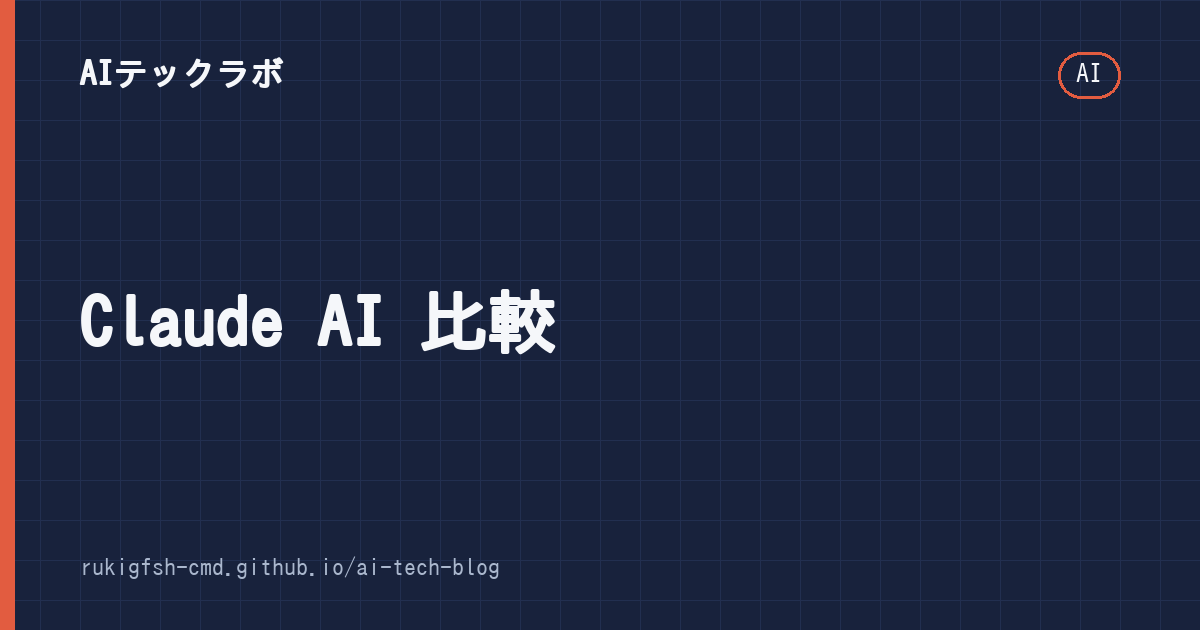
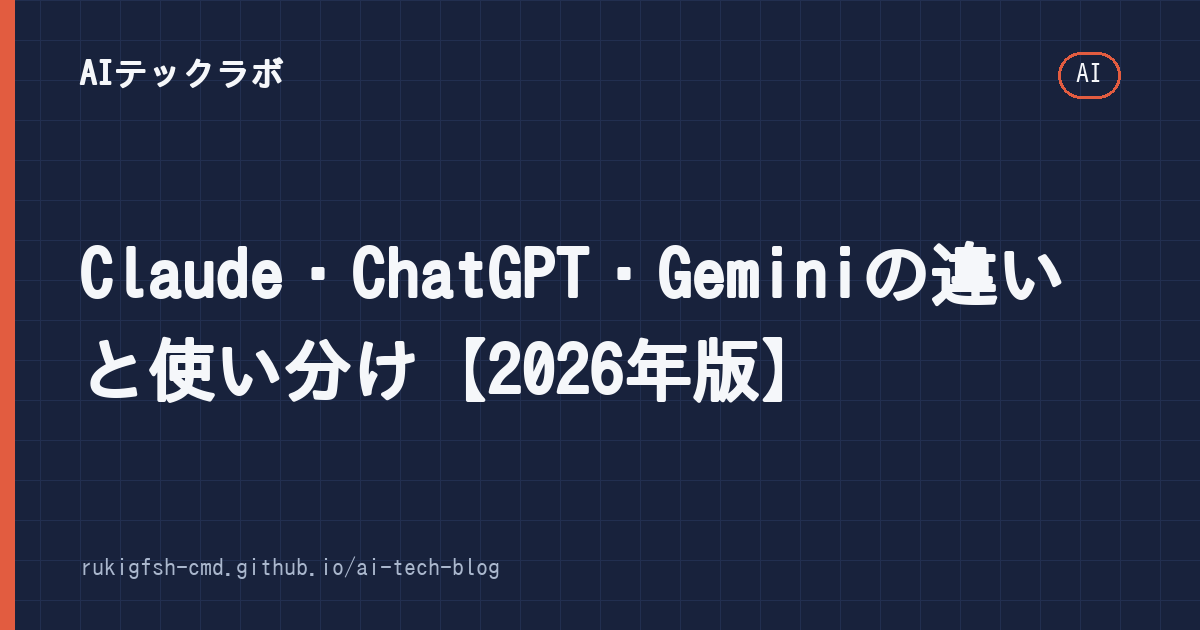
Rewrite Claude/ChatGPT/Gemini comparison and AI side-job guide
- claude-ai-比較: write full article (was empty/unpublished), pricing with sources as of 2026-11-19
- ai-副業-始め方: remove unfounded income claims, fix tax info (20万円), add stealth-marketing and platform AI rules
- Regenerate OGP images; update content audit

Claude-Session: https://claude.ai/code/session_01LHbLs1hcAZeejNQaYbbbgP

Changed region(s): [[0.0617, 0.3921, 0.8942, 0.6333]]

diff --git a/_posts/2026-10-07-ai-副業-始め方.md b/_posts/2026-10-07-ai-副業-始め方.md
@@ -2,7 +2,8 @@
 layout: "post"
 title: "AI副業の始め方：初心者が選びやすいジャンルと現実的な収益の目安"
 date: "2026-10-07 00:00:00 +0900"
-description: "AI 副業 始め方について詳しく解説します。"
+last_modified_at: 2026-11-19
+description: "AIを使った副業の代表的なジャンル、始める手順、収益の考え方を、誇張なしで解説。ステマ規制や各サービスのAIルール、確定申告（副業所得20万円の目安）などの注意点もまとめました。"
 categories:
   - AI
   - 副業
@@ -14,62 +15,118 @@ author: "AIテックラボ編集部"
 image: "/assets/images/ai-副業-始め方.png"
 ---
 
+ChatGPT や Claude などの生成AIを使えば、文章・画像・プログラムを短時間で作れるようになりました。では、それを副業にするにはどうすればいいのでしょうか。
+
+先に結論を書くと、**AIを使えば「作業」は速くなりますが、「誰でも・すぐに・安定して稼げる」わけではありません。** この記事では、よくある副業ジャンルと始め方を、収益を約束しない現実的な目線でまとめます。
+
 ## 目次
 
-1. [AI副業の3つの王道ジャンルと収益性比較](#ai副業の3つの王道ジャンルと収益性比較)
-2. [初心者でも始められる具体的なステップ](#初心者でも始められる具体的なステップ)
-3. [収益化のポイント](#収益化のポイント)
-4. [よくある失敗例](#よくある失敗例)
-5. [FAQ](#faq)
+1. [収益についての前提](#収益についての前提)
+2. [AI副業の代表的な4つのジャンル](#ai副業の代表的な4つのジャンル)
+3. [始め方の5ステップ](#始め方の5ステップ)
+4. [必ず知っておきたい注意点](#必ず知っておきたい注意点)
+5. [よくある質問](#よくある質問)
+6. [まとめ](#まとめ)
 
----
+## 収益についての前提
 
-## AI副業の3つの王道ジャンルと収益性比較
+ネット上には「AIで月30万円」のような話があふれていますが、こうした数字には次のような前提が隠れていることがほとんどです。
 
-まず、どんな分野で稼げるのかを確認しましょう。以下の3つが現在の主流です。
+- もともと文章・デザイン・プログラミングなどの**本業レベルのスキル**がある
+- ブログやSNSで**何か月〜何年も**発信を続けて、読者や顧客がいる
+- うまくいった一部の人の数字で、**同じことをしても同じ結果にはならない**
 
-**① AIコンテンツ制作（最もアクセスが多い）**
-ChatGPTやClaudeで記事・ブログ・SNS投稿を自動生成し、アフィリエイト広告で収益化します。月収10〜20万円レベルの事例が多く見られます。
+逆に言えば、AIは「すでにある力を何倍かにする道具」です。最初の数か月は収益ゼロ〜数千円という前提で、**失ってもいいのは時間だけ（お金はかけない）**という始め方をおすすめします。
 
-**② AI画像生成販売**
-MidjourneyやStable Diffusionでオリジナルアートを作成し、Stock PhotoサイトやEtsyで販売。初心者でも月3〜5万円程度は安定して稼げます。
+## AI副業の代表的な4つのジャンル
 
-**③ AIツール構築・代行**
-小規模企業が業務効率化のためにAI導入を検討している場合、ChatGPTカスタムボットや自動化スクリプトの構築を請負します。1案件あたり2〜5万円の単価です。
+| ジャンル | 収益の形 | 収益までの時間 | 向いている人 |
+|---|---|---|---|
+| ① 文章・ライティング | 1件ごとの報酬 | 早い（数週間〜） | 文章を直すのが苦にならない人 |
+| ② ブログ・情報発信 | 広告・アフィリエイト | 遅い（数か月〜） | 長く続けられる人 |
+| ③ デジタル商品の販売 | 売れた分だけ | 中くらい | 人に教えられる知識がある人 |
+| ④ 作業代行（自動化・ツール作り） | 1件ごとの報酬 | 早い | パソコン作業やプログラミングが得意な人 |
 
-## 初心者でも始められる具体的なステップ
+### ① 文章・ライティング
 
-**ステップ1：市場調査（3時間）**
-まず「AI 副業」でGoogleトレンドを検索し、検索ボリュームの高いキーワードを抽出します。例：「英語学習ツール」「ダイエットアドバイス」「投資戦略」など。競合がいないニッチ分野を狙いましょう。
+クラウドソーシング（クラウドワークス・ランサーズなど）で記事作成などの仕事を受けます。AIで下書きを作り、自分で事実確認・編集して納品する形です。
 
-**ステップ2：プロンプトエンジニアリングの習得（1週間）**
-OpenAI公式ドキュメントやMidjourneyコミュニティで公開されているプロンプトを勉強します。ここが重要です。AIは「指示力」がすべて。良いアウトプットには良いプロンプトが必要です。
+注意したいのは、**案件によっては「AI使用禁止」**とされていることです。サービス側のルールと、発注者のルールの両方を必ず確認してください。生成AIの普及で、単純な記事作成の案件は減り、専門性のある案件に仕事が集まる傾向も指摘されています。
 
-**ステップ3：MVP制作とテスト販売（2週間〜1ヶ月）**
-すぐに本格的なサービスを作る前に、最小機能の版本を作ってみましょう。例：AI記事作成なら、1記事分だけでも完成させて、Twitterで「AIを使って記事を書きました。誰か編集してほしい」という形で反応テストします。
+### ② ブログ・情報発信
 
-## 収益化のポイント
+ブログやSNSで発信し、広告（Google AdSense など）やアフィリエイト（商品紹介の報酬）で収益を得ます。始めるのにお金はほとんどかかりませんが、**検索から読者が来るまでに数か月かかる**のが普通です。
 
-単価を安くしないこと。AIツール自体は無料・安価ですが、時間を売るのではなく成果物で取引します。「AIで記事作成」なら1記事3,000円、「画像生成」なら1枚2,000円など。最初は数千円でもOKです。
+AIで記事を大量に作って投稿するのは逆効果です。Google は、検索順位を操作する目的で中身の薄いページを大量に作ることを[スパムポリシー](https://developers.google.com/search/docs/essentials/spam-policies)で禁止しています。1本ずつ、自分で確かめた内容を書くことが近道です。
 
-自動化を進めることで単価を上げるのが上達の道です。完全に手作業だけでやろうとすると、時給1,000円程度で終わってしまいます。
+### ③ デジタル商品の販売
 
-## よくある失敗例
+テンプレート、手順書（PDF）、プロンプト集などを BOOTH や note で販売します。一度作れば繰り返し売れるのが魅力ですが、**売れるかどうかは中身と集客しだい**です。
 
-- 著作権侵害：AI生成物の著作権は明確ではないため、SNSでの拡散には注意
-- プラグミング：「AIを使って記事を書いた」という告発が来ることがある
-- ツール依存：特定のAIツールに固執すると、サービス終了などで困る。複数のツールを回すようにしよう
+BOOTH は AI 生成作品への対応を強化しており、差別化のない量産品の大量出品は禁止されています（参考: [Impress Watch](https://www.watch.impress.co.jp/docs/news/1501164.html)）。出品先の最新ルールを読んでから作り始めましょう。
 
-## FAQ
+### ④ 作業代行（自動化・ツール作り）
 
-Q1. AI副業は本当に儲かるの？
-A. 市場調査と適切な単価設定ができるなら十分可能。ただし「楽して稼げる」わけではありません。
+Excel の関数作り、簡単なプログラム、業務の自動化などを請け負います。AIでコードを書く時間は短くなりますが、**動作確認とお客さんとのやりとりは自分の仕事**です。なお、ココナラでは AI で生成したイラストの納品が禁止されているなど、サービスごとのルールがあります（[ココナラのお知らせ](https://coconala.com/news/917)）。
 
-Q2. 必要なスキルは何ですか？
-A. プロンプトエンジニアリング、基本的なプログラミング知識（Python）、AIツールの操作力。
+## 始め方の5ステップ
 
-Q3. 初期投資はどれくらい必要？
-A. AIツール自体は無料〜月額数千円程度で使えます。PC・スマホがあれば十分です。
+**ステップ1：自分の得意なことを1つ決める**
+仕事や趣味で人より詳しいこと（業界の知識、Excel、ガジェットなど）を1つ選びます。AIは、得意分野がある人ほど役に立ちます。
 
-Q4. 税務上の注意点はありますか？
-A. 所得が200万円を超えると確定申告が必要になります。クラウド利用の場合は経費として認められます。
+**ステップ2：AIツールを1つ使いこなす**
+無料版で十分です。どれを選ぶか迷ったら「[Claude・ChatGPT・Geminiの違いと使い分け]({{ site.baseurl }}{% post_url 2026-10-08-claude-ai-比較 %})」を参考にしてください。指示の出し方（プロンプト）のコツは「[プロンプトエンジニアリング入門]({{ site.baseurl }}{% post_url 2026-09-27-プロンプトエンジニアリング-入門 %})」で解説しています。
+
+**ステップ3：小さく1つ作ってみる**
+記事1本、テンプレート1つ、ツール1つなど、まずは「見本」になる成果物を作ります。これが実績になります。
+
+**ステップ4：お金をかけずに出してみる**
+クラウドソーシングで1件応募する、ブログに1本書く、BOOTH に1つ出品するなど、無料でできる形で世に出します。高額な副業スクールや情報商材は不要です。
+
+**ステップ5：数字を見て直す**
+応募が通らない、読まれない、売れない——その理由を考えて改善します。1〜3か月続けてから、向いているかを判断しましょう。
+
+## 必ず知っておきたい注意点
+
+### AIの間違いをそのまま出さない
+
+生成AIは、もっともらしい間違い（存在しない数字や出典）を出すことがあります。納品物や記事は、**必ず自分で事実確認**してから出しましょう。
+
+### 広告であることを隠さない（ステマ規制）
+
+2023年10月から、広告であることを隠した宣伝（いわゆるステマ）は景品表示法で規制されています。アフィリエイトリンクを使うときは「PR」「広告」などの表記が必要です（[消費者庁：ステルスマーケティングに関する規制](https://www.caa.go.jp/policies/policy/representation/fair_labeling/stealth_marketing/)）。
+
+### 著作権・規約を守る
+
+他人の文章や画像をAIに読ませて似たものを作り、そのまま販売するのはトラブルのもとです。また、各サービスの規約（AI生成物の扱い、禁止行為）は変わることがあるので、定期的に確認しましょう。
+
+### 会社の副業ルールを確認する
+
+会社員の場合、就業規則で副業が制限されていることがあります。始める前に確認しておきましょう。
+
+### 税金（確定申告）
+
+会社員などの給与所得者は、**副業の所得（収入から経費を引いた額）が年20万円を超えると、原則として確定申告が必要**です（[国税庁 タックスアンサー No.1900](https://www.nta.go.jp/taxes/shiraberu/taxanswer/shotoku/1900.htm)）。20万円以下で所得税の確定申告が不要な場合でも、**住民税の申告は別に必要**です。詳しくはお住まいの市区町村や税務署で確認してください。
+
+## よくある質問
+
+**Q1. AI副業は本当に稼げますか？**
+A. 稼いでいる人はいますが、多くはもともとのスキルと継続の結果です。最初の数か月は収益が出ない前提で、お金をかけずに始めるのがおすすめです。
+
+**Q2. 必要なスキルは？**
+A. 最低限、AIへの指示の出し方と、AIの出力が正しいか確かめる力が必要です。ジャンルによっては文章力やプログラミングの基礎があると有利です。
+
+**Q3. 初期費用はどれくらい？**
+A. パソコンかスマホがあれば、無料版のAIツールで始められます。有料プラン（月20ドル前後）は、無料版の上限に困ってからで十分です。
+
+**Q4. 「〇〇するだけで月収〇万円」という講座は？**
+A. 根拠のない高額な講座や情報商材には注意してください。国民生活センターも、副業・情報商材に関するトラブルについて注意を呼びかけています。
+
+## まとめ
+
+- AIは作業を速くする道具。「誰でもすぐ稼げる」ものではない
+- 得意分野 × AI で、小さく作ってお金をかけずに試す
+- ステマ規制・各サービスのAIルール・会社の副業規定・確定申告（所得20万円の目安）を必ず確認
+- 1〜3か月は続けて、数字を見ながら改善する
+
+※ 本記事は2026年11月19日時点の情報です。各サービスの規約や税制は変わることがあるため、最新の情報は公式ページでご確認ください。

diff --git a/_posts/2026-10-08-claude-ai-比較.md b/_posts/2026-10-08-claude-ai-比較.md
@@ -1,15 +1,162 @@
 ---
 layout: "post"
-title: "Claude AI 比較"
+title: "Claude・ChatGPT・Geminiの違いと使い分け【2026年版】"
 date: "2026-10-08 00:00:00 +0900"
-description: "Claude AI 比較について詳しく解説します。"
+last_modified_at: 2026-11-19
+description: "Claude・ChatGPT・Geminiの得意分野、料金プラン、無料版でできることを2026年11月時点の情報で比較。用途別にどれを選べばいいか、失敗しない選び方を解説します。"
 categories:
   - AI
 tags:
   - Claude
-  - AI
+  - ChatGPT
+  - Gemini
   - 比較
 author: "AIテックラボ編集部"
 image: "/assets/images/claude-ai-比較.png"
-published: false  # 本文が空のため非公開。Claude が書き直したら true にする
+pr: false
 ---
+
+「Claude・ChatGPT・Gemini、結局どれを使えばいいの？」という疑問に、2026年11月時点の公開情報をもとに答えます。
+
+3つとも毎月のようにモデルや料金が変わるため、この記事では**変わりにくい「性格の違い」と「選び方」**を中心にまとめ、料金などの数字には確認日と出典を付けています。契約の前には、必ず各社の公式ページで最新の情報を確かめてください。
+
+## 結論：まず無料版で試し、「よく使う道具」との相性で選ぶ
+
+| こんな人に | おすすめ | 理由 |
+|---|---|---|
+| 長い文章を読み書きする、プログラミングをする | **Claude** | 長い資料の読み込みと、落ち着いた文章・コードの品質に定評がある |
+| 1つで何でもこなしたい、画像や音声も使いたい | **ChatGPT** | 機能の幅が広く、利用者が多いので使い方の情報も見つけやすい |
+| Gmail・Googleドキュメント・Androidを毎日使う | **Gemini** | Googleのサービスとの連携が強く、ストレージ付きプランもある |
+
+迷ったら、**3つとも無料版で同じ質問をしてみる**のがいちばん確実です。どれも無料で始められ、得意・不得意は実際の仕事の内容によって変わるからです。
+
+## 3つの基本情報
+
+| | Claude | ChatGPT | Gemini |
+|---|---|---|---|
+| 提供元 | Anthropic | OpenAI | Google |
+| 主なモデルの系統 | Opus・Sonnet・Haiku・Fable | GPT-5 系 | Gemini 3 系 |
+| 無料版 | あり | あり | あり |
+| 個人向けの標準有料プラン | Pro（月20ドル） | Plus（月20ドル） | Google AI Pro（月2,900円） |
+| 強み | 長文・文章の質・コード | 機能の幅・情報の多さ | Googleサービス連携・検索 |
+
+※ 2026年11月19日時点。料金は税抜・為替やアプリ内課金で変わることがあります。
+
+モデルの細かい版（「〇〇 4.6」「〇〇 5.5」など）は数か月ごとに入れ替わります。**版の番号よりも、どのプランでどの系統が使えるか**を見るほうが、選ぶときに役立ちます。
+
+## Claude の特徴
+
+Claude は Anthropic が提供するAIアシスタントです。
+
+**得意なこと**
+
+- 長い資料（PDFや議事録、契約書のたたき台など）をまとめて読み、要点を整理する
+- 指示に沿った、自然で落ち着いた日本語の文章を書く
+- プログラムを書く・直す。有料プランでは開発者向けの「Claude Code」も使える
+- 「プロジェクト」機能で、資料と指示をまとめて置いておき、同じ前提で何度も相談できる
+
+**料金プラン（公式ページより）**
+
+| プラン | 月額（税抜） | 主な内容 |
+|---|---|---|
+| Free | 0ドル | Sonnet・Haiku を一定量まで |
+| Pro | 20ドル（年払いなら月17ドル相当） | Opus も利用可、Claude Code、Research など |
+| Max | 100ドル | Pro の5倍の利用量 |
+| Ultra | 200ドル | Pro の10倍の利用量（週あたり） |
+
+出典: [Claude の料金ページ](https://claude.com/pricing)（2026年11月19日確認）。利用量の上限は、5時間ごと・1週間ごとに決まっています。
+
+**向いている人**: 資料作成や文章の仕事が多い人、プログラミングをする人。
+
+## ChatGPT の特徴
+
+ChatGPT は OpenAI が提供する、いちばん利用者の多いAIチャットです。
+
+**得意なこと**
+
+- 文章・画像生成・音声での会話・ファイル分析など、1つのアプリでできることが多い
+- 利用者が多いため、使い方の解説や活用例がネットにたくさんある
+- 自分用にカスタマイズしたアシスタント（GPTs）を作ったり、他の人が作ったものを使ったりできる
+
+**料金プラン（2026年時点の報道・公式発表より）**
+
+| プラン | 月額（米ドル） | ひとこと |
+|---|---|---|
+| Free | 0ドル | 基本機能を回数制限つきで |
+| Go | 8ドル前後 | 無料版より多く使える低価格プラン |
+| Plus | 20ドル | 標準の有料プラン |
+| Pro | 100ドル / 200ドル | ヘビーユーザー向け |
+
+出典: [OpenAI「Introducing ChatGPT Go」](https://openai.com/index/introducing-chatgpt-go)、[MacRumors（2026年1月）](https://www.macrumors.com/2026/01/16/chatgpt-go-now-available-worldwide/)。日本での円建て価格やプランごとの使えるモデルは頻繁に変わるため、契約前にアプリ内の表示で確認してください。
+
+**向いている人**: AIを初めて使う人、画像や音声も含めて1つで済ませたい人。
+
+## Gemini の特徴
+
+Gemini は Google が提供するAIです。
+
+**得意なこと**
+
+- Gmail・Googleドキュメント・Googleドライブなどと連携して、メールの要約や下書きができる
+- Google検索の情報をもとに答えるのが得意
+- Androidスマホとの相性がよい
+
+**料金プラン（日本）**
+
+| プラン | 月額 | ひとこと |
+|---|---|---|
+| 無料 | 0円 | Googleアカウントがあればすぐ使える |
+| Google AI Plus | 1,200円（2026年1月の提供開始時） | 低価格の入門プラン。ストレージ付き |
+| Google AI Pro | 2,900円 | 標準の有料プラン。ストレージ付き |
+| Google AI Ultra | 3万円台 | 最上位プラン |
+
+出典: [ギズモード・ジャパン「Google AI Plus は月1,200円」](https://www.gizmodo.jp/article/google_ai_plus/)、[ビジネス+IT（2026年1月）](https://www.sbbit.jp/article/cont1/179565)。その後の値下げを伝える報道もあるため、最新の金額は Google One のアプリや公式ページで確認してください。
+
+Googleのプランはクラウドストレージがセットになっているため、**すでにGoogle Oneを払っている人は、乗り換えるだけで実質の負担が小さくなる**ことがあります。
+
+Gemini の機能をもっと詳しく知りたい人は「[Gemini（Google AI）の特徴と使い方]({{ site.baseurl }}{% post_url 2026-10-02-gemini-google-ai-特徴 %})」も参考にしてください。
+
+## 用途別の選び方
+
+### 仕事の文章・資料づくり
+
+長い資料を読ませて要約し、そのまま報告書のたたき台を作る、といった使い方なら **Claude** が候補の筆頭です。ChatGPT・Gemini でもできますが、長文の扱いと文章の自然さを重視するなら Claude から試すのがおすすめです。
+
+### プログラミング
+
+3つとも対応していますが、ターミナルやエディタの中でAIにコードを直してもらう「コーディングエージェント」まで使うなら、**Claude（Claude Code）** か **ChatGPT（Codex）** が中心になります。
+
+### 調べもの
+
+最新の情報を調べるなら、Web検索と組み合わせて使えるかが重要です。3つとも検索機能を持っていますが、検索結果の出典を確認しながら使いたいなら、調べもの専用の「[Perplexity AI]({{ site.baseurl }}{% post_url 2026-10-03-perplexity-ai-検索 %})」を併用するのも手です。
+
+### 画像の生成・音声での会話
+
+**ChatGPT** か **Gemini** が向いています。Claude は画像を「読む」ことはできますが、画像を「作る」機能は主な用途ではありません。
+
+### スマホ中心の生活
+
+Android なら **Gemini**、iPhone ならどれでも大きな差はありません。普段よく使うアプリ（Gmail か、それ以外か）で選ぶと失敗しにくいです。
+
+## 有料プランにする前に確かめたいこと
+
+1. **無料版の上限に本当にぶつかっているか**: たまに使う程度なら無料版で十分なことが多いです。
+2. **2つ以上の有料プランを同時に払っていないか**: 月20ドルのプランを2つ払うと、年間で約500ドルになります。使う頻度の低いほうは解約を検討しましょう。
+3. **年払いの割引**: Claude Pro のように、年払いで実質の月額が下がるプランもあります。ただし途中で解約しても返金されない場合があるので、まず月払いで1〜2か月試すのが安全です。
+
+## 共通の注意点
+
+- **間違えることがある**: 3つともそれらしい間違い（存在しない資料や数字）を出すことがあります。重要な事実は出典で確認しましょう。
+- **個人情報・社外秘を入れない**: 会社の機密や他人の個人情報は入力しないのが基本です。仕事で使うなら、会社の利用ルールを先に確認してください。
+- **学習への利用の設定**: 入力した内容をモデルの改善に使うかどうかは、各サービスの設定で確認・変更できます。
+- **料金とモデルはよく変わる**: この記事の数字も、数か月で古くなる可能性があります。
+
+AIへの指示の出し方を工夫すると、どのサービスでも答えの質が上がります。基本は「[プロンプトエンジニアリング入門]({{ site.baseurl }}{% post_url 2026-09-27-プロンプトエンジニアリング-入門 %})」で解説しています。
+
+## まとめ
+
+- **長文・文章・コード**なら Claude、**何でも1つで**なら ChatGPT、**Googleのサービス中心**なら Gemini。
+- 標準の有料プランはどれも月20ドル前後（Gemini は日本で月2,900円）。
+- まずは3つの無料版に同じ質問をして、自分の仕事に合うものを選ぶのがいちばん確実です。
+
+※ 本記事の料金・プラン情報は2026年11月19日時点で確認できたものです。最新の情報は各社の公式ページをご確認ください。

diff --git a/automation/state/content-audit.md b/automation/state/content-audit.md
@@ -5,13 +5,14 @@
 
 ## 優先度A（公開中で問題が大きい）
 
-- [ ] `_posts/2026-10-08-claude-ai-比較.md` — 本文が空のため非公開中。「Claude・ChatGPT・Geminiの違いと使い分け（2026年版）」として書き直し、`published: false` の行を消す。
+- [x] `_posts/2026-10-08-claude-ai-比較.md`（2026-11-19 書き直して公開） — 本文が空のため非公開中。「Claude・ChatGPT・Geminiの違いと使い分け（2026年版）」として書き直し、`published: false` の行を消す。
 - [ ] `_posts/2026-09-16-n8n-自動化-使い方.md` — 本文が空のため非公開中。n8n の入門（クラウド版とセルフホスト、最初のワークフロー例）として書き直し、`published: false` の行を消す。
 - [ ] `_posts/2026-10-11-rag-構築-入門.md` — 存在しないAPI（`from chromadb import ChromaDB`、`ChromaVectorStoreRetriever` など）を含む。現行の chromadb / LangChain の正しいコードに書き直し、コンテナで実行して確認する。「2023年末時点のトレーニングデータ」など古い記述も直す。
 - [ ] `_posts/2026-09-07-ai画像-販売-方法.md` — 本文の「月30万円以上」など根拠のない収益表現を削除。販売先ごとの AI 生成物ルール（BOOTH、PIXTA、Adobe Stock など）を出典付きで正確に。
-- [ ] `_posts/2026-10-07-ai-副業-始め方.md` — 「初心者でも月3〜5万円程度は安定して稼げます」など根拠のない表現を削除し、前提条件と幅で書く。ステマ規制・確定申告（副業所得が年20万円を超える場合など）の注意を追記。
+- [x] `_posts/2026-10-07-ai-副業-始め方.md`（2026-11-19 全面改稿。確定申告の誤り「200万円」も修正） — 「初心者でも月3〜5万円程度は安定して稼げます」など根拠のない表現を削除し、前提条件と幅で書く。ステマ規制・確定申告（副業所得が年20万円を超える場合など）の注意を追記。
 - [ ] `_posts/2026-09-19-chatgpt-副業-活用.md` — 同上（収益の約束をしない）。
 - [ ] `_posts/2026-09-26-キーボード-メカニカル-おすすめ.md` — 見出しに「タイトル：【2024年版】」という生成ミスの残骸。2026年時点の製品情報で書き直し、商品リンクを `{% include amazon.html %}` に。
+- [ ] `_posts/2026-10-02-gemini-google-ai-特徴.md` — 見出し「完全オフライン対応」、description「検索対応なし」など事実と逆の記述。Gemini の現行機能・料金（Google AI Plus / Pro）で書き直す。（2026-11-19 追加）
 - [ ] `_posts/2026-10-12-vram-不足-解決-方法.md` — 本文が約1,100字と短い。量子化・オフロード・モデル選び・設定例まで具体的に。
 
 ## 優先度B（情報の鮮度・正確さ）
